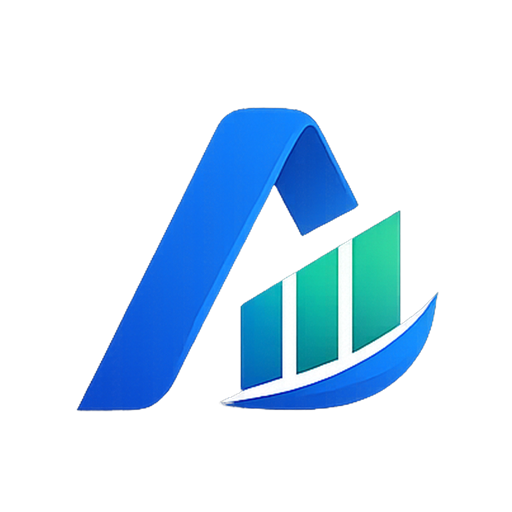
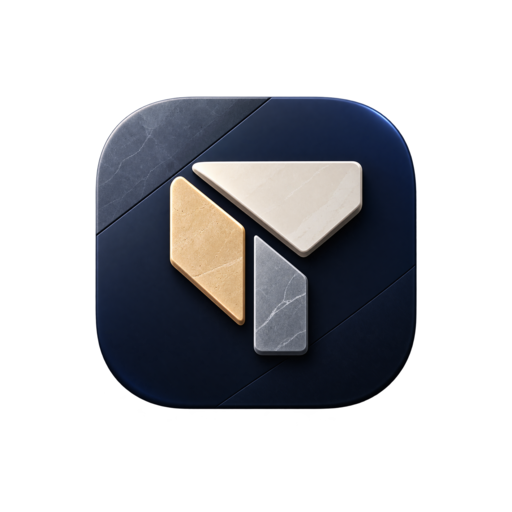
feat: rebrand project to Tylio, update assets, and configure splash screen

diff --git a/app/login.tsx b/app/login.tsx
@@ -42,20 +42,28 @@ export default function LoginScreen() {
 
   return (
     <KeyboardAvoidingView
-      style={[styles.container, { paddingTop: insets.top, paddingBottom: insets.bottom }]}
+      style={[
+        styles.container,
+        { paddingTop: insets.top, paddingBottom: insets.bottom },
+      ]}
       behavior={Platform.OS === "ios" ? "padding" : undefined}
     >
       <View style={styles.brand}>
         <View style={styles.brandMark}>
           <Ionicons name="storefront" size={26} color="#fff" />
         </View>
-        <Text style={styles.title}>ACSM Sales</Text>
+        <Text style={styles.title}>Tylio Mobile</Text>
         <Text style={styles.subtitle}>Sign in to record sales.</Text>
       </View>
 
       <View style={styles.form}>
         <View style={styles.inputWrap}>
-          <Ionicons name="mail-outline" size={18} color={colors.textFaint} style={styles.inputIcon} />
+          <Ionicons
+            name="mail-outline"
+            size={18}
+            color={colors.textFaint}
+            style={styles.inputIcon}
+          />
           <TextInput
             style={styles.input}
             placeholder="Email"
@@ -69,7 +77,12 @@ export default function LoginScreen() {
         </View>
 
         <View style={styles.inputWrap}>
-          <Ionicons name="lock-closed-outline" size={18} color={colors.textFaint} style={styles.inputIcon} />
+          <Ionicons
+            name="lock-closed-outline"
+            size={18}
+            color={colors.textFaint}
+            style={styles.inputIcon}
+          />
           <TextInput
             style={styles.input}
             placeholder="Password"
@@ -95,7 +108,10 @@ export default function LoginScreen() {
         )}
 
         <Pressable
-          style={[styles.button, (submitting || !email || !password) && styles.buttonDisabled]}
+          style={[
+            styles.button,
+            (submitting || !email || !password) && styles.buttonDisabled,
+          ]}
           onPress={handleSubmit}
           disabled={submitting || !email || !password}
         >
@@ -112,54 +128,54 @@ export default function LoginScreen() {
 
 function makeStyles(colors: ThemeColors) {
   return StyleSheet.create({
-  container: {
-    flex: 1,
-    justifyContent: "center",
-    paddingHorizontal: spacing.xl,
-    backgroundColor: colors.background,
-  },
-  brand: { alignItems: "center", marginBottom: spacing.xxl },
-  brandMark: {
-    width: 56,
-    height: 56,
-    borderRadius: radius.lg,
-    backgroundColor: colors.primary,
-    alignItems: "center",
-    justifyContent: "center",
-    marginBottom: spacing.lg,
-  },
-  title: { fontSize: 24, fontWeight: "800", color: colors.text },
-  subtitle: { fontSize: 14, color: colors.textMuted, marginTop: 4 },
-  form: { gap: spacing.md },
-  inputWrap: {
-    flexDirection: "row",
-    alignItems: "center",
-    gap: 10,
-    borderWidth: 1,
-    borderColor: colors.border,
-    backgroundColor: colors.surface,
-    borderRadius: radius.md,
-    paddingHorizontal: 14,
-    height: 50,
-  },
-  inputIcon: {},
-  input: { flex: 1, fontSize: 16, color: colors.text, height: "100%" },
-  errorBanner: {
-    flexDirection: "row",
-    alignItems: "center",
-    gap: 8,
-    backgroundColor: colors.dangerSoft,
-    borderRadius: radius.md,
-    padding: 10,
-  },
-  error: { color: colors.danger, fontSize: 13, flex: 1 },
-  button: {
-    backgroundColor: colors.primary,
-    borderRadius: radius.md,
-    paddingVertical: 15,
-    alignItems: "center",
-    marginTop: spacing.xs,
-  },
+    container: {
+      flex: 1,
+      justifyContent: "center",
+      paddingHorizontal: spacing.xl,
+      backgroundColor: colors.background,
+    },
+    brand: { alignItems: "center", marginBottom: spacing.xxl },
+    brandMark: {
+      width: 56,
+      height: 56,
+      borderRadius: radius.lg,
+      backgroundColor: colors.primary,
+      alignItems: "center",
+      justifyContent: "center",
+      marginBottom: spacing.lg,
+    },
+    title: { fontSize: 24, fontWeight: "800", color: colors.text },
+    subtitle: { fontSize: 14, color: colors.textMuted, marginTop: 4 },
+    form: { gap: spacing.md },
+    inputWrap: {
+      flexDirection: "row",
+      alignItems: "center",
+      gap: 10,
+      borderWidth: 1,
+      borderColor: colors.border,
+      backgroundColor: colors.surface,
+      borderRadius: radius.md,
+      paddingHorizontal: 14,
+      height: 50,
+    },
+    inputIcon: {},
+    input: { flex: 1, fontSize: 16, color: colors.text, height: "100%" },
+    errorBanner: {
+      flexDirection: "row",
+      alignItems: "center",
+      gap: 8,
+      backgroundColor: colors.dangerSoft,
+      borderRadius: radius.md,
+      padding: 10,
+    },
+    error: { color: colors.danger, fontSize: 13, flex: 1 },
+    button: {
+      backgroundColor: colors.primary,
+      borderRadius: radius.md,
+      paddingVertical: 15,
+      alignItems: "center",
+      marginTop: spacing.xs,
+    },
     buttonDisabled: { opacity: 0.5 },
     buttonText: { color: "#fff", fontWeight: "700", fontSize: 16 },
   });

diff --git a/metro.config.js b/metro.config.js
@@ -2,7 +2,7 @@ const path = require("path");
 const { getDefaultConfig } = require("expo/metro-config");
 
 const projectRoot = __dirname;
-// acsm-mobile is an npm workspace member — shared deps are hoisted to the
+// tylio-mobile is an npm workspace member — shared deps are hoisted to the
 // workspace root's node_modules, so Metro needs to watch and resolve from
 // there too, not just its own package folder.
 const workspaceRoot = path.resolve(projectRoot, "..");

diff --git a/AGENTS.md b/AGENTS.md
@@ -6,7 +6,7 @@ Read the exact versioned docs at https://docs.expo.dev/versions/v57.0.0/ before 
 
 This app is offline-first: every write queues locally in SQLite (`lib/db.ts`,
 `expo-sqlite`) before it's pushed to the web backend
-(`acsm-web`'s `POST /api/orders/sync`), and the UI always reads from the local
+(`tylio-web`'s `POST /api/orders/sync`), and the UI always reads from the local
 queue, never from an in-flight network call.
 
 ### Orders are the only write path
